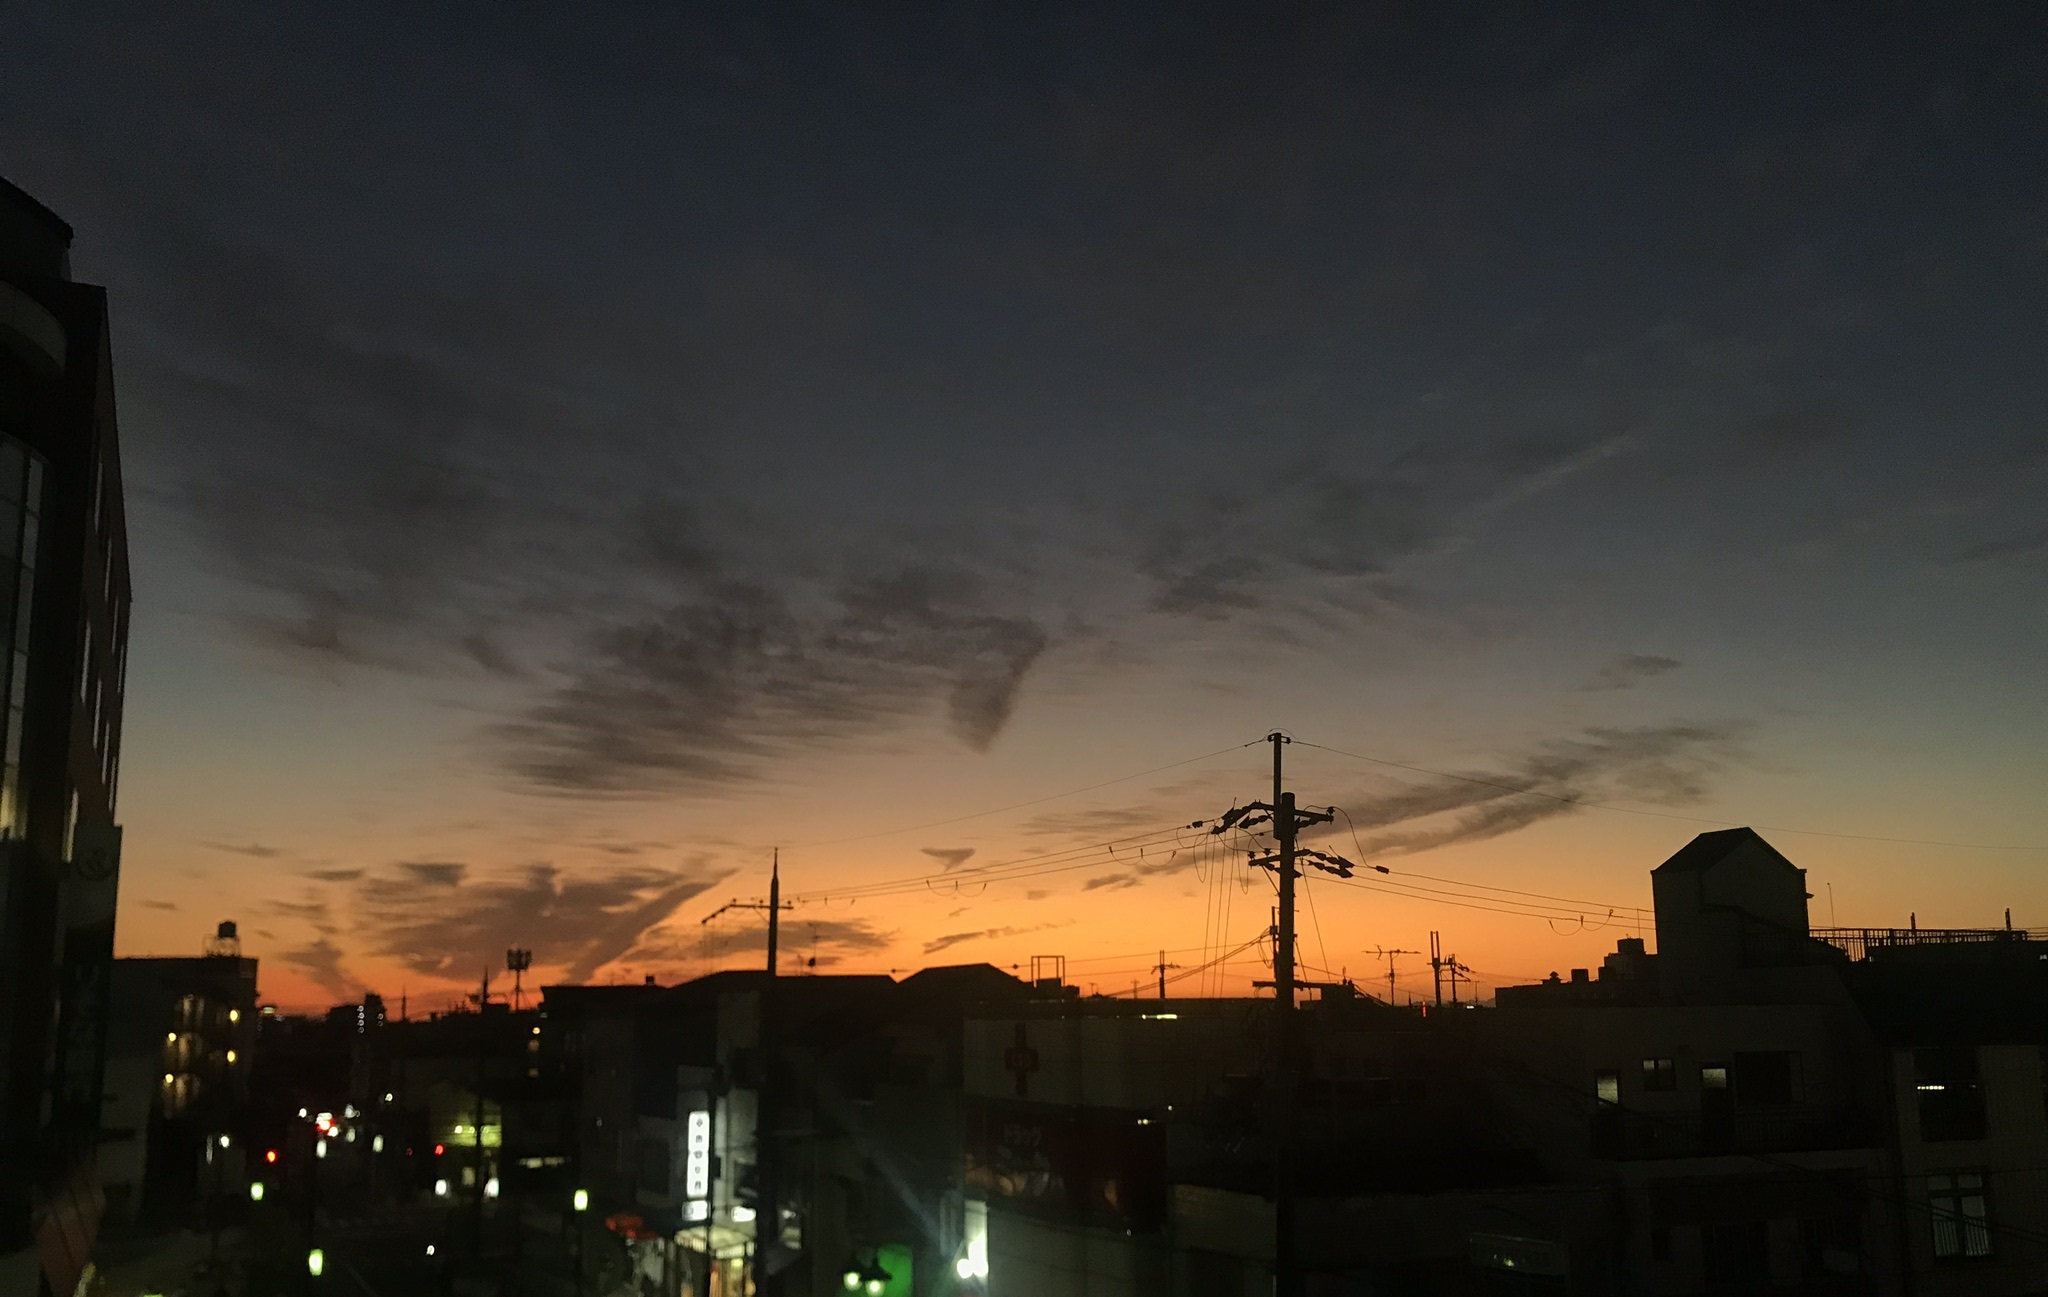
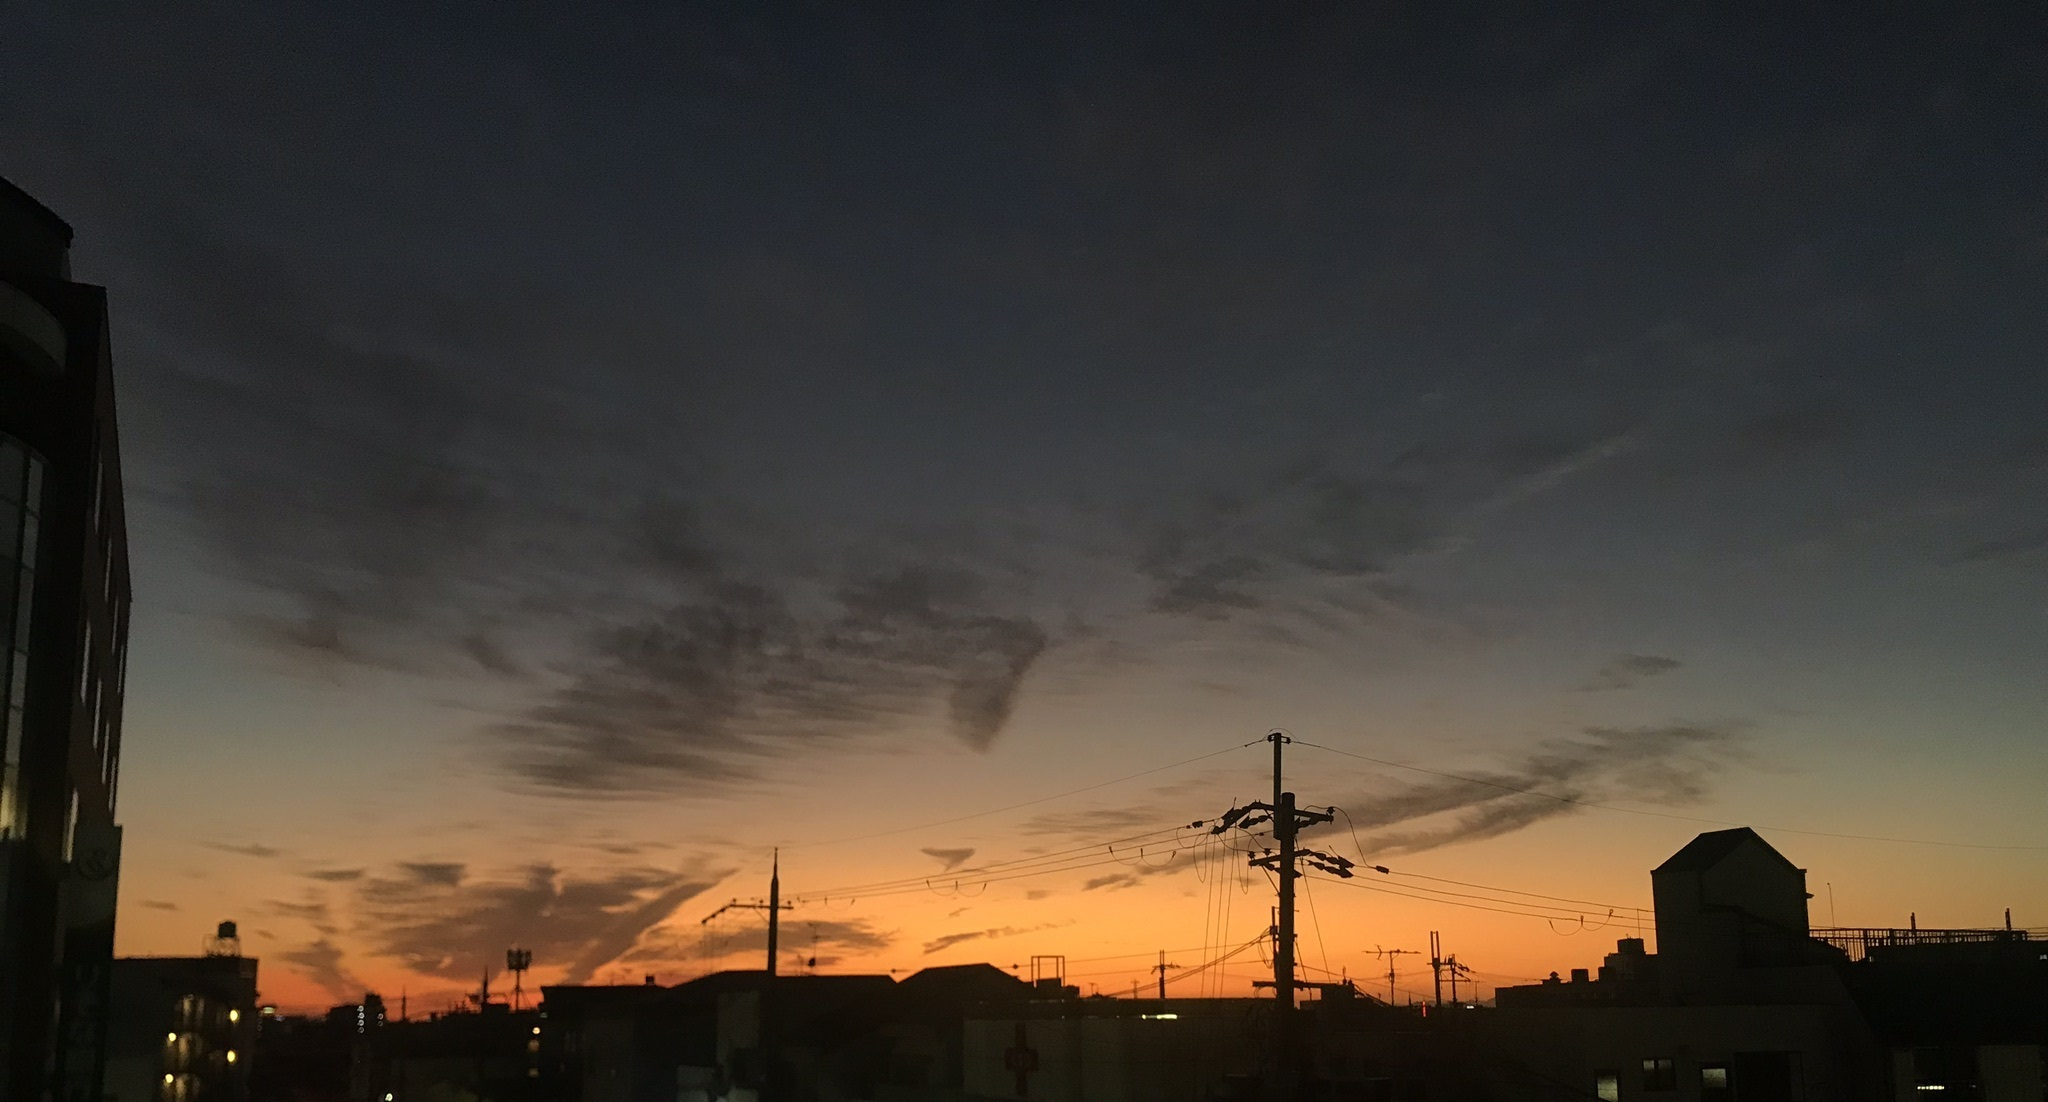
Add files via upload

diff --git a/band/StyleSheet1.css b/band/StyleSheet1.css
@@ -1,6 +1,6 @@
 body {
     background-color: #2b2b2b;
-    margin:0;
+    margin: 0;
 }
 
 /*TOP-LOGO*/
@@ -34,9 +34,11 @@
     }
 }
 
-.topp1 {
-    width: 100%;
+#topp1 {
     vertical-align: bottom;
+    object-fit:cover;
+    object-position: 50% 80%;
+    width: 100%;
 }
 
 #top_photo{
@@ -50,7 +52,7 @@
 
 #header_icon img {
     width: 18%;
-    min-width: 100px;
+    min-width: 200px;
     margin: 10px;
     z-index: 50;
     display: flex;
@@ -126,10 +128,9 @@
     background: none;
     border: none;
     position: fixed;
-    width: 120px;
     transition: all 0.5s;
-    height: 120px;
-    width: 120px;
+    height: 90px;
+    width: 90px;
     z-index: 20;
     margin-top: 20px;
     animation-name: rightham;
@@ -148,18 +149,18 @@
         top: calc(50% - 1px);
         content: '';
         width: 80%;
-        height: 8px;
+        height: 4px;
         background: #FFFFFF;
         transition: transform 0.3s;
     border-radius:20px;
     }
 
 #nav_b::before {
-    transform: translateY(-43px);
+    transform: translateY(-32px);
 }
 
 #nav_b::after {
-    transform: translateY(37px)
+    transform: translateY(28px)
 }
 
 #nav_b.hamoff::before {
@@ -174,7 +175,7 @@
     transition: opacity 0.3s;
     opacity: 1;
     color: #FFFFFF;
-    font-size: 45px;
+    font-size: 35px;
     font-family: 'Kosugi Maru', sans-serif;
     width: 100%;
     display: flex;
@@ -435,7 +436,6 @@
     justify-content: center;
     text-decoration: none;
     position: relative;
-    transition: border 0.6s cubic-bezier(0.2,0.8,0.6,0.9);
     overflow: hidden;
 }
 
@@ -449,7 +449,7 @@
         height: 100%;
         transform: translateY(100%);
         z-index: -1;
-        transition-duration: 0.5s;
+        transition-duration: 0.2s;
     }
 
     #discomore.discof::after {
@@ -461,7 +461,7 @@
     font-size: 30px;
     z-index: 1;
     color: #FFFFFF;
-    transition-duration: 0.5s;
+    transition-duration: 0.2s;
 }
 
     #discomore_a.discoff {

diff --git a/band/toppage.html b/band/toppage.html
@@ -55,7 +55,16 @@
             });
         </script>
         <div id="top_photo">
-            <img src="img/photo/topphoto3.jpeg" alt="TOP" class="topp1">
+            <img src="img/photo/topphoto3.jpeg"  alt="TOP" id="topp1">
+            <script>
+                var nekoneko = document.getElementById('topp1');
+
+                nekoneko.style.height = window.innerHeight + 'px';
+
+                window.addEventListener('resize', function () {
+                    nekoneko.style.height = window.innerHeight + 'px';
+                });
+            </script>
             <img src="img/logow.png" alt="top" class="logogo">
         </div>
         <!--end header-->
